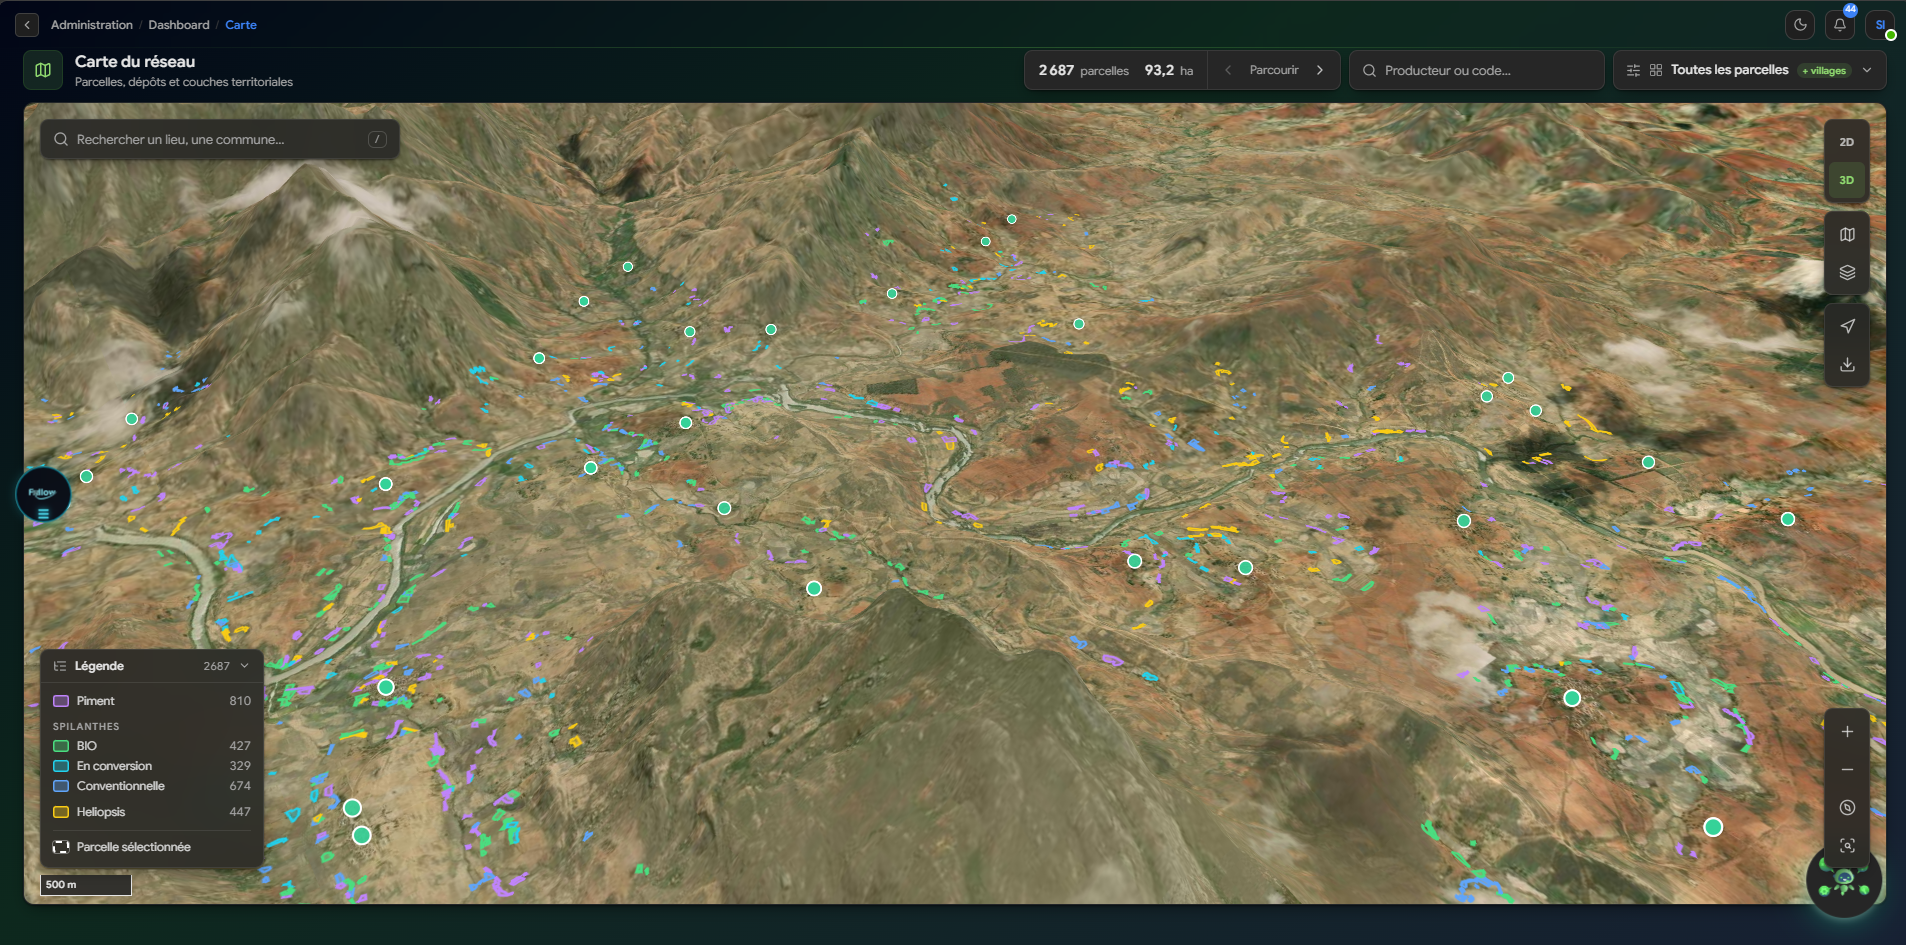
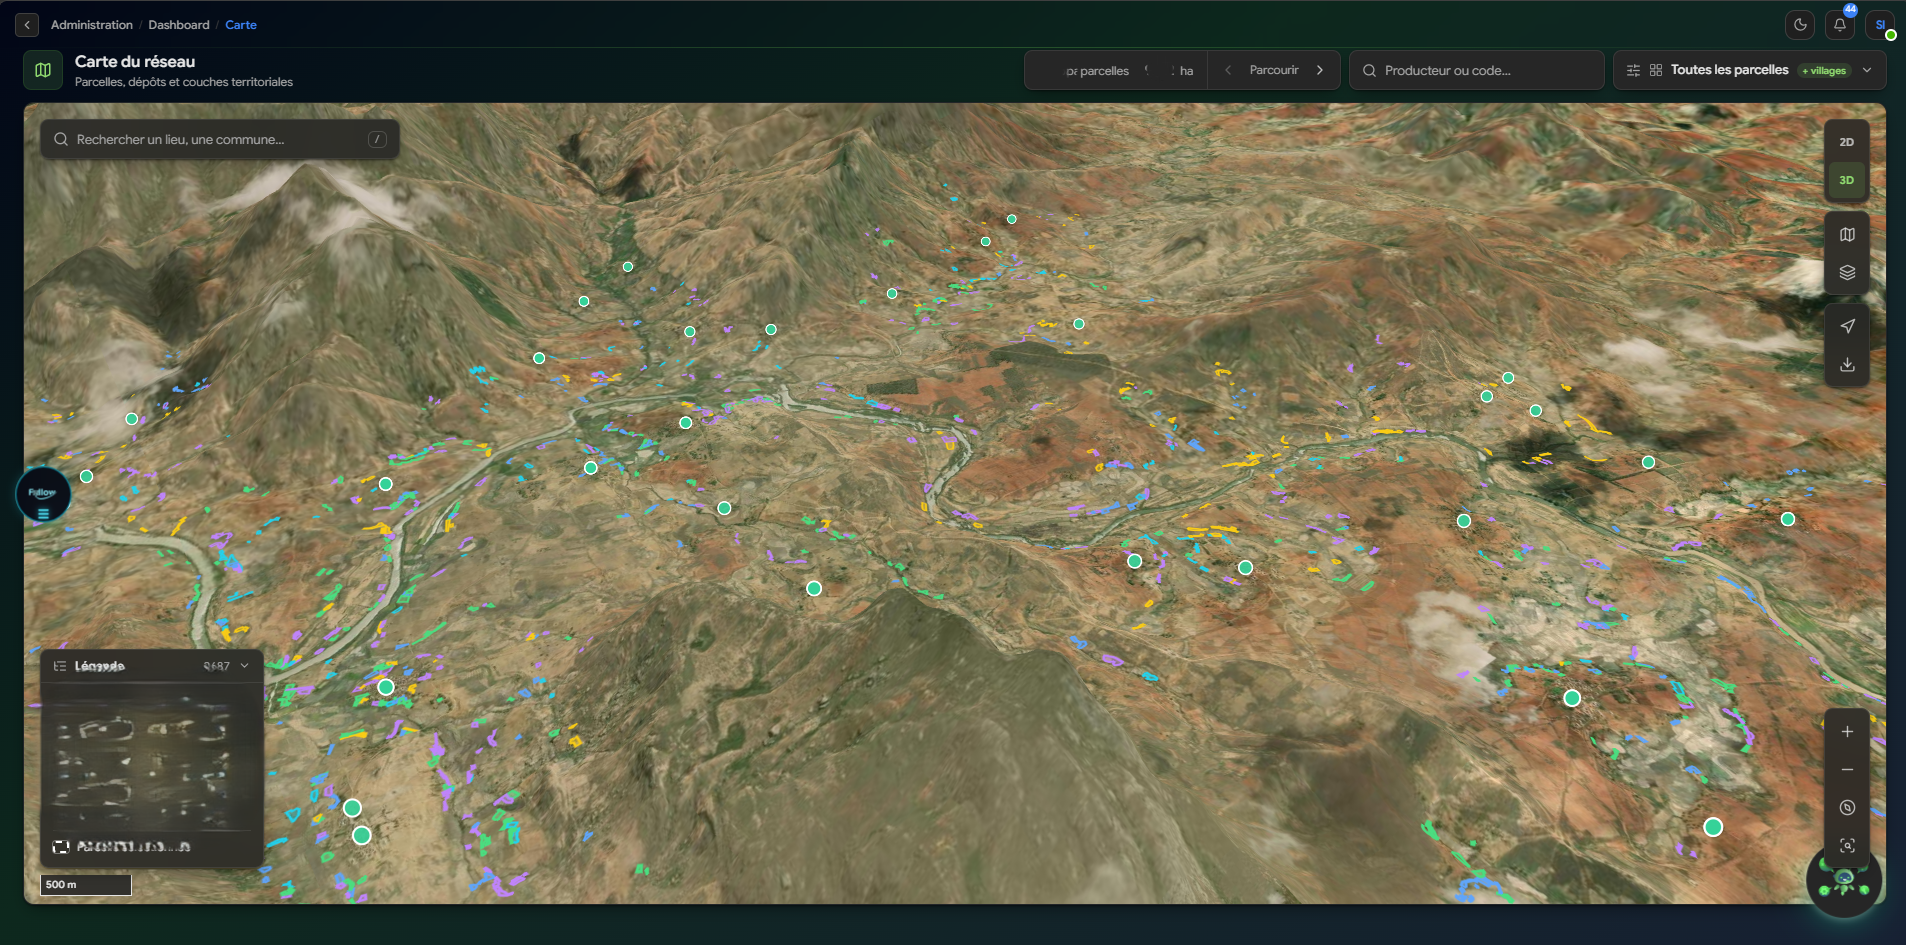
Update pour les projets

Changed region(s): [[0.0, 0.7058, 0.1238, 0.9206], [0.5881, 0.0614, 0.6191, 0.0921]]

diff --git a/src/data/portfolio.ts b/src/data/portfolio.ts
@@ -228,6 +228,8 @@ export const projets: Projet[] = ([
       "PostgreSQL / PostGIS",
       "JWT",
       "Computer vision",
+      "Flutter",
+      "SQLite",
     ],
     description: {
       fr: "Plateforme de biosécurité agricole pour Madagascar : une application web de détection précoce et de suivi des maladies des cultures. Les techniciens diagnostiquent une plante à partir d'une photo grâce à un modèle d'IA, les foyers sont cartographiés en temps réel et les décideurs pilotent alertes, protocoles de traitement et impact économique depuis un tableau de bord unique.",
